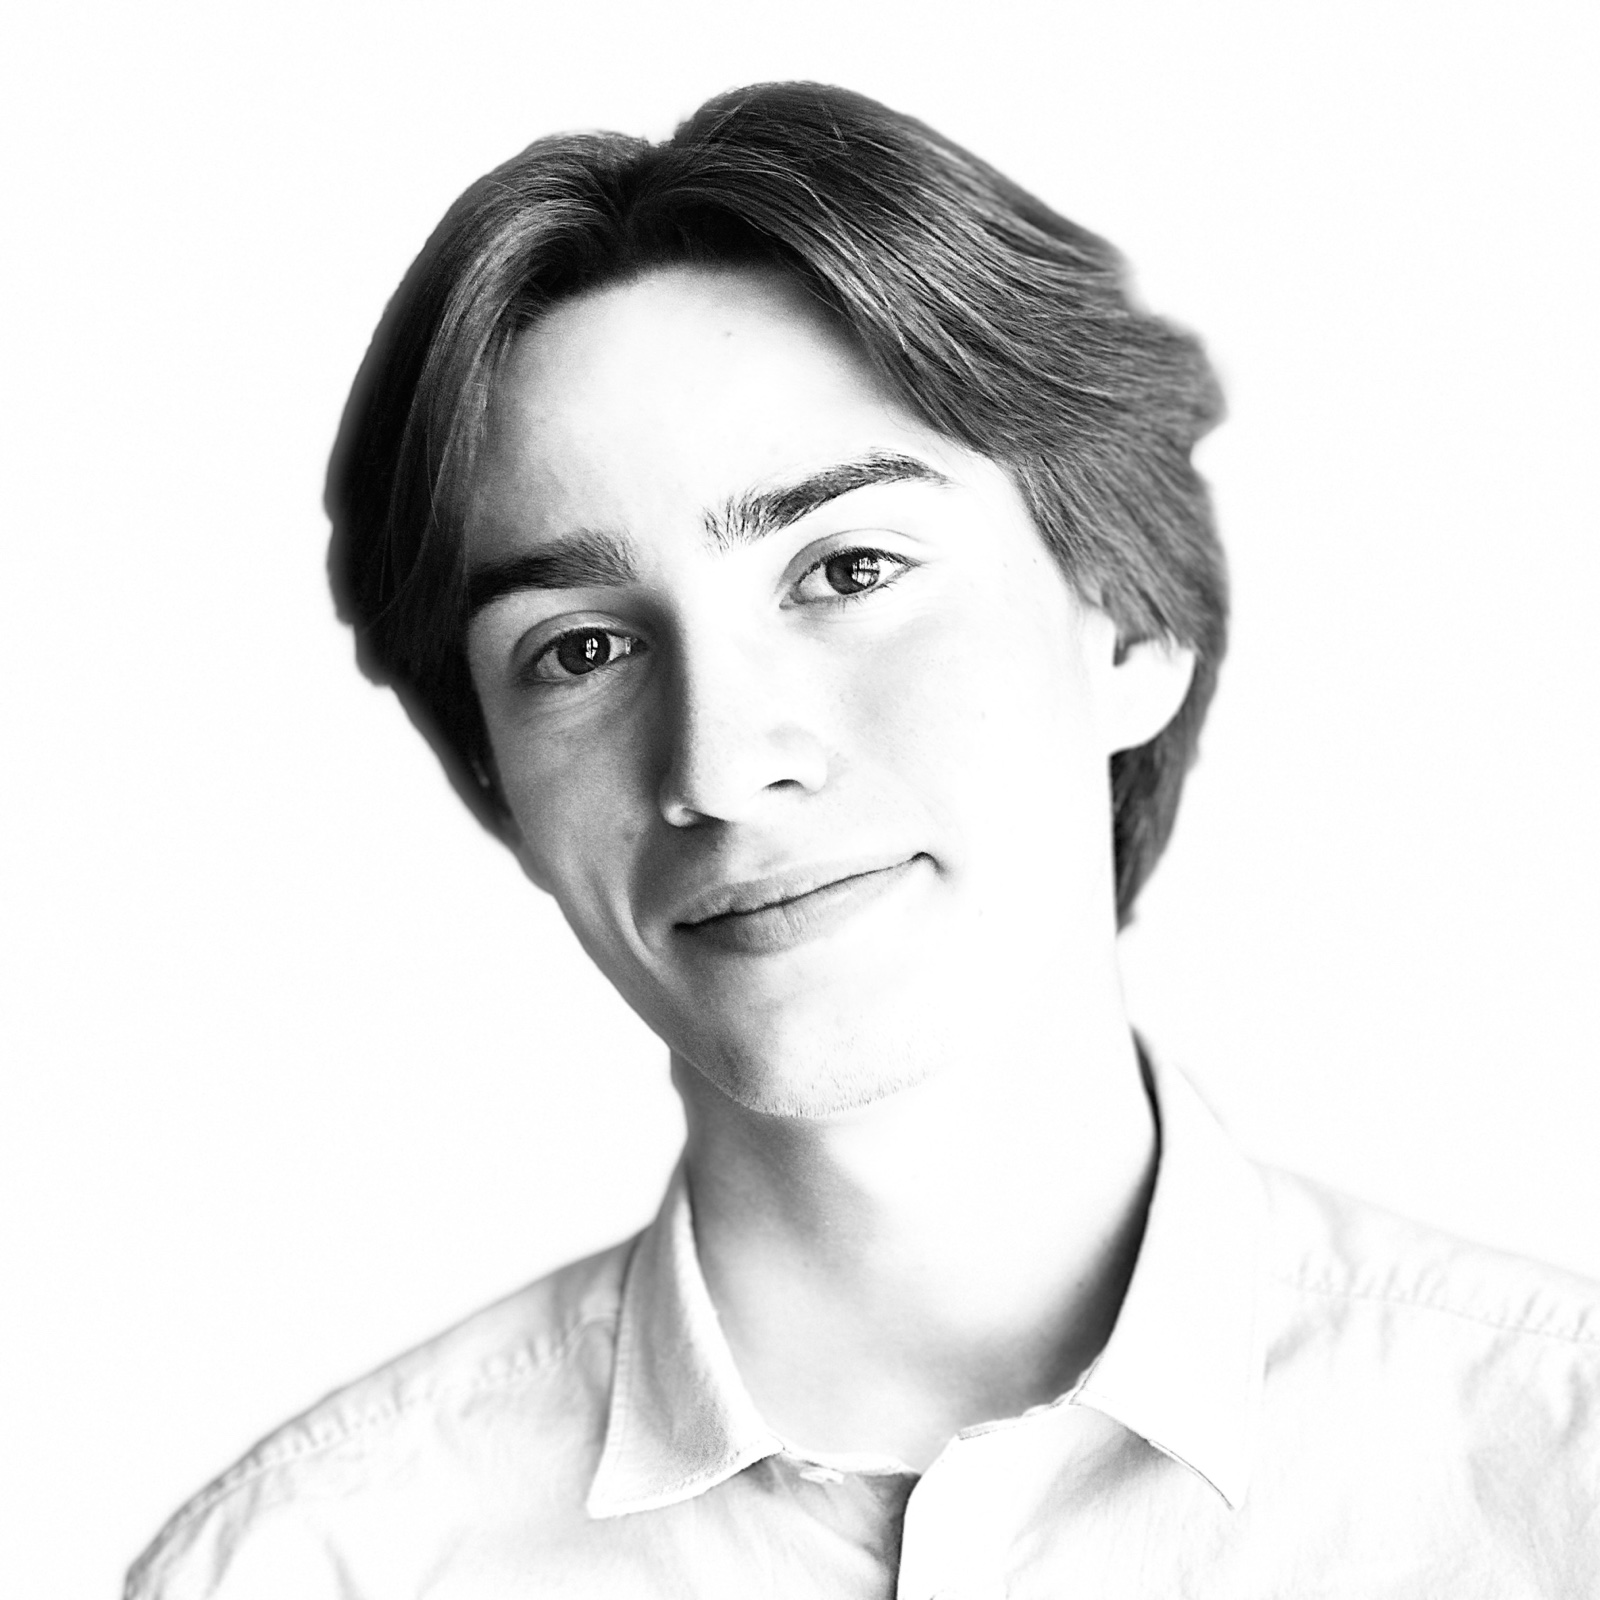
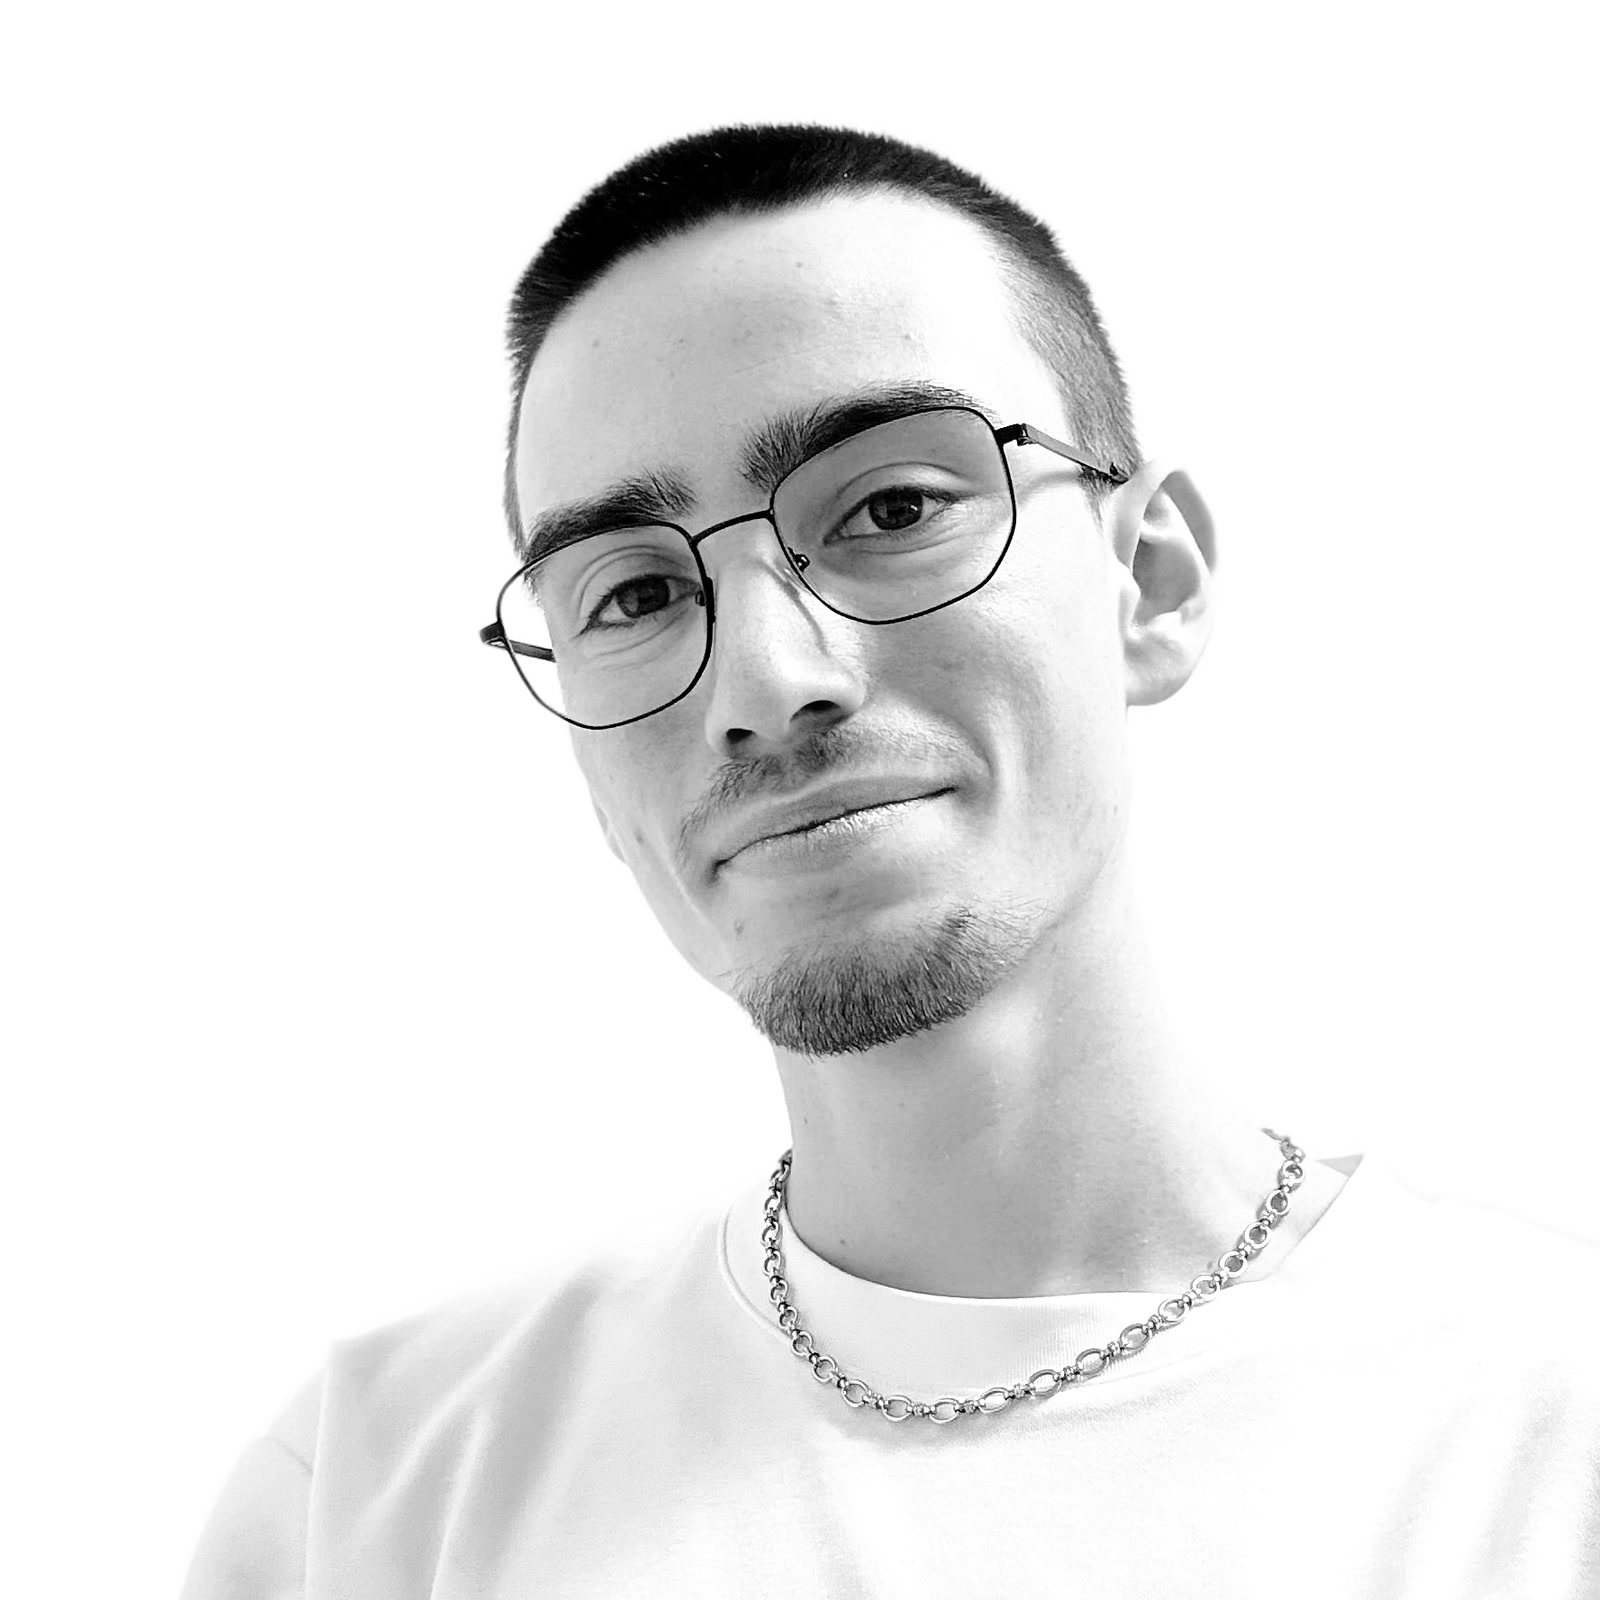
feat(profile): replace the portrait with a current photo

diff --git a/src/data/profile.ts b/src/data/profile.ts
@@ -101,7 +101,7 @@ export const profile = {
   collaborations,
   portrait: {
     src: portrait,
-    alt: "Black and white portrait of Thibaut Lefrançois, smiling, in a white shirt.",
+    alt: "Black and white portrait of Thibaut Lefrançois, smiling, with short hair and glasses, in a white T-shirt.",
   },
   avatar: {
     src: avatar,
@@ -127,7 +127,8 @@ const french = {
   mobility: "Télétravail partout en France, sur site à Bordeaux, La Rochelle, Niort et alentours",
   languages: ["Français", "Anglais"],
   cvPath: "/cv/thibaut-lefrancois-cv-fr.pdf" as string | undefined,
-  portraitAlt: "Portrait en noir et blanc de Thibaut Lefrançois, souriant, en chemise blanche.",
+  portraitAlt:
+    "Portrait en noir et blanc de Thibaut Lefrançois, souriant, cheveux courts et lunettes, en t-shirt blanc.",
   avatarAlt: "Avatar dessiné de Thibaut, les cheveux en trame, un crayon derrière l'oreille.",
   credits: {
     raccourci: "Youbook, pour le logiciel touristique du Groupe Yoni",
